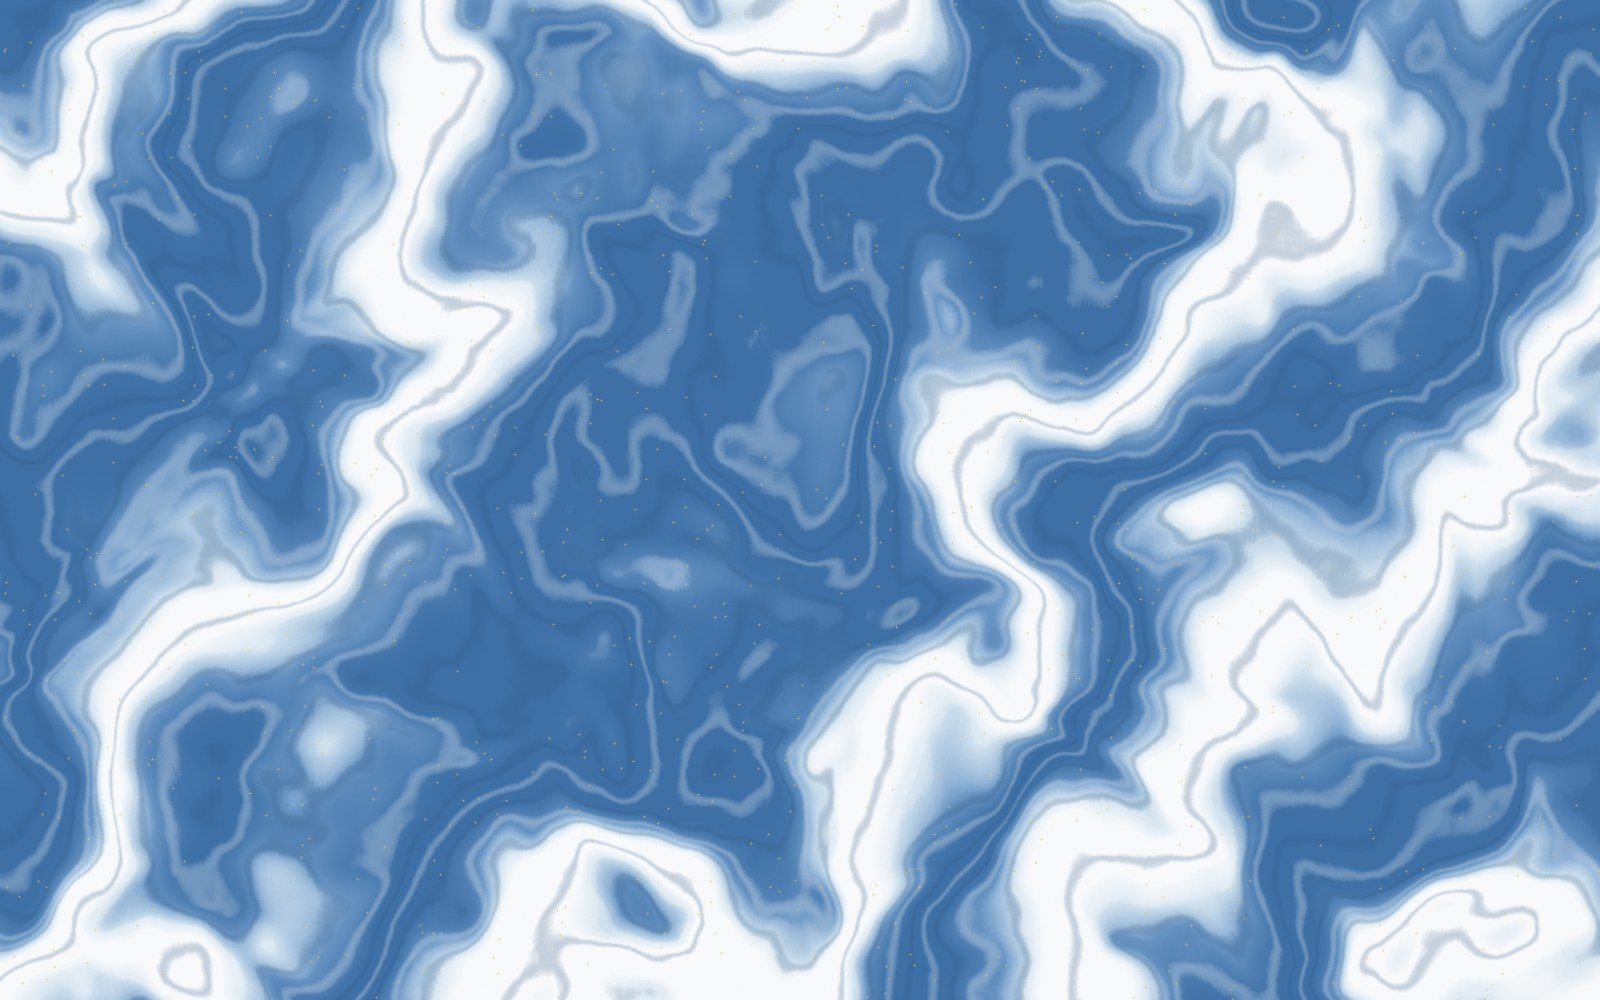
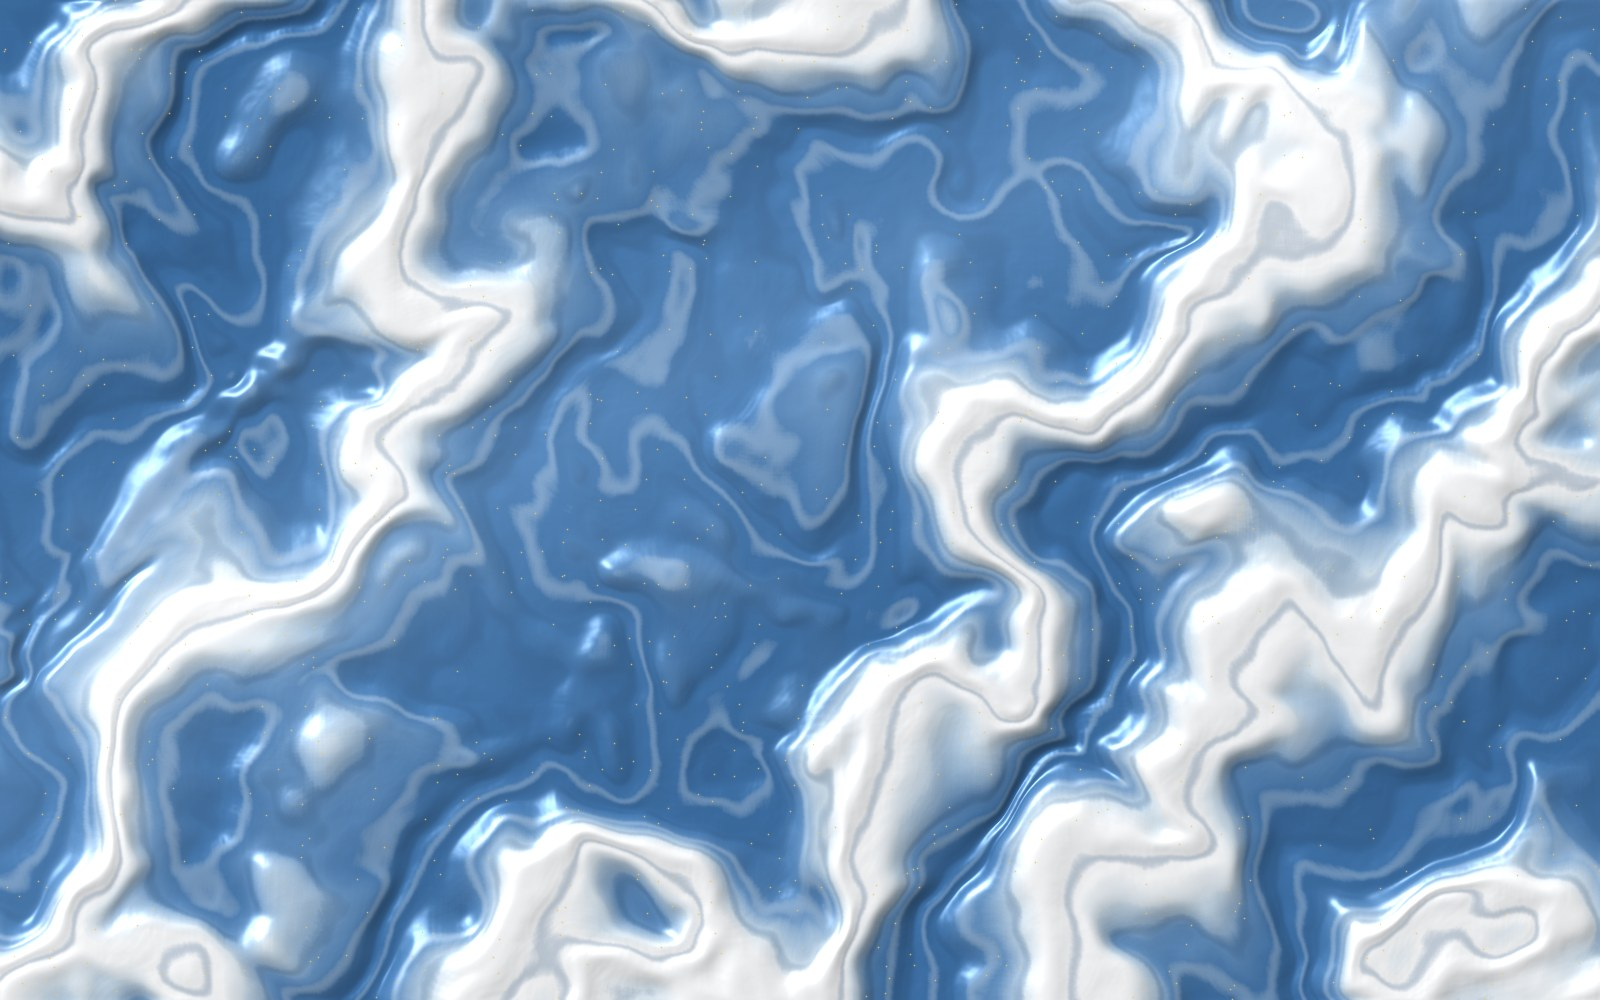
Honey Tune: user's title art, mockup drips, 3D marble, no timeline drips
Claude-Session: https://claude.ai/code/session_01CehMogZvv8Ni66uUe9tZRt

diff --git a/honeytune/HoneyPanel.cpp b/honeytune/HoneyPanel.cpp
@@ -205,23 +205,21 @@ void HoneyPanel::paint (Graphics& g)
     for (const auto& c : cards)
         drawGlass (g, c, 7.0f, 0.6f);
 
-    // Title: honeycomb cell + HONEY TUNE
+    // Title art
+    g.setOpacity (1.0f);
+    if (const auto img = title(); img.isValid())
     {
-        const float cx = topBar.getX() + 22.0f, cy = topBar.getCentreY() - 6.0f, rad = 12.0f;
-        Path hex;
-        for (int k = 0; k < 6; ++k)
-        {
-            const float a = MathConstants<float>::pi / 3.0f * (float) k + MathConstants<float>::pi / 6.0f;
-            const Point<float> p { cx + rad * std::cos (a), cy + rad * std::sin (a) };
-            if (k == 0) hex.startNewSubPath (p); else hex.lineTo (p);
-        }
-        hex.closeSubPath();
-        fillGold (g, hex, hex.getBounds());
-        g.setColour (goldDeep);
-        g.strokePath (hex, PathStrokeType (1.2f));
-        drawGoldText (g, "HONEY TUNE", Rectangle<float> (cx + 18.0f, cy - 14.0f, 160.0f, 28.0f), FontOptions (22.0f, Font::bold), Justification::centredLeft);
-        drawGoldText (g, "by Voxology", Rectangle<float> (cx + 19.0f, cy + 12.0f, 120.0f, 14.0f), FontOptions (11.5f, Font::bold), Justification::centredLeft);
+        // A soft dark halo first, so the marble letters stand off the marble bar.
+        const auto placed = RectanglePlacement (RectanglePlacement::centred).appliedTo (img.getBounds().toFloat(), titleArea);
+        const auto scaled = img.rescaled (roundToInt (placed.getWidth()), roundToInt (placed.getHeight()), Graphics::highResamplingQuality);
+        Graphics::ScopedSaveState save (g);
+        g.addTransform (AffineTransform::translation (placed.getX(), placed.getY()));
+        DropShadow (Colour (0xff0b1726).withAlpha (0.85f), 9, { 1, 2 }).drawForImage (g, scaled.convertedToFormat (Image::ARGB));
+        g.setOpacity (1.0f);
+        g.drawImageAt (scaled, 0, 0);
     }
+    drawGoldText (g, "by Voxology", titleArea.withTrimmedLeft (titleArea.getWidth() * 0.42f).removeFromBottom (15.0f).translated (0.0f, 3.0f),
+                  FontOptions (12.0f, Font::bold), Justification::centredLeft);
 
     // Control labels on the marble, in embossed gold.
     for (auto* l : { &keyLabel, &scaleLabel, &snapLabel, &driftLabel, &vibratoLabel })
@@ -276,13 +274,18 @@ void HoneyPanel::paint (Graphics& g)
 
 void HoneyPanel::paintOverChildren (Graphics& g)
 {
-    // Honey dripping from the top bar over the roll, and from the frame below the window.
+    // Honey dripping off the bottom of the frame (the drips from the mockup art).
     const auto fr = frameArea();
-    const float rulerBottom = (float) roll.getY() + 20.0f;   // drips hang from the gold time ruler
-    honeytheme::drawDrips (g, fr.getX() + 70.0f, fr.getX() + fr.getWidth() * 0.45f, rulerBottom, 26.0f, 4, 3);
-    honeytheme::drawDrips (g, fr.getRight() - 260.0f, fr.getRight() - 60.0f, rulerBottom, 16.0f, 2, 9);
-    honeytheme::drawDrips (g, fr.getX() + fr.getWidth() * 0.55f, fr.getRight() - 30.0f, fr.getBottom() - 1.0f, kDripRoom - 4.0f, 6, 17);
-    honeytheme::drawDrips (g, fr.getX() + 30.0f, fr.getX() + 260.0f, fr.getBottom() - 1.0f, kDripRoom - 6.0f, 3, 23);
+    g.setOpacity (1.0f);
+    const float positions[] = { 0.26f, 0.61f, 0.87f };
+    for (int k = 0; k < 3; ++k)
+    {
+        const auto img = honeytheme::drip (k);
+        if (! img.isValid()) continue;
+        const float h = kDripRoom + kFrame + 6.0f, w = h * (float) img.getWidth() / (float) img.getHeight();
+        const float x = fr.getX() + fr.getWidth() * positions[k] - (k == 2 ? w * 0.5f : 0.0f);
+        g.drawImage (img, { std::min (x, fr.getRight() - w - 4.0f), fr.getBottom() - kFrame - 3.0f, w, h }, RectanglePlacement::stretchToFit);
+    }
 }
 
 Rectangle<float> HoneyPanel::frameArea() const
@@ -294,7 +297,7 @@ void HoneyPanel::resized()
 {
     const auto inner = frameArea().reduced (kFrame);
     auto r = inner;
-    topBar = r.removeFromTop (70.0f);
+    topBar = r.removeFromTop (104.0f);
     r.removeFromTop (kSeparator);
     bottomBar = r.removeFromBottom (84.0f);
     r.removeFromBottom (kSeparator);
@@ -302,8 +305,10 @@ void HoneyPanel::resized()
     cards.clear();
 
     // Top: title | key | scale | snap | drift | vibrato | fit ... legend | logo
-    auto top = topBar.reduced (8.0f, 8.0f);
-    top.removeFromLeft (172.0f);
+    auto top = topBar.reduced (8.0f, 4.0f);
+    titleArea = top.removeFromLeft (236.0f).withTrimmedBottom (6.0f);
+    top.removeFromLeft (6.0f);
+    top = top.withSizeKeepingCentre (top.getWidth(), 56.0f);
     logoArea = top.removeFromRight (120.0f);
     top.removeFromRight (6.0f);
     legendArea = top.removeFromRight (92.0f);

diff --git a/honeytune/assets/src/cutout.py b/honeytune/assets/src/cutout.py
@@ -1,0 +1,28 @@
+# Cuts art out of a "fake transparency" checkerboard: near-white / light-grey, unsaturated regions that
+# touch the border (or are big) become transparent; edges get a soft alpha.
+import sys, numpy as np
+from PIL import Image, ImageFilter
+from scipy import ndimage
+def cutout(img, box=None, big=600, satMax=0.06, valMin=0.72):
+    im = img.convert('RGB')
+    if box: im = im.crop(box)
+    a = np.asarray(im, dtype=np.float32) / 255
+    mx, mn = a.max(2), a.min(2)
+    sat = np.where(mx > 0, (mx - mn) / np.maximum(mx, 1e-6), 0)
+    checker = (sat < satMax) & (mx > valMin)
+    lab, n = ndimage.label(checker)
+    border = set(np.unique(np.concatenate([lab[0], lab[-1], lab[:, 0], lab[:, -1]]))) - {0}
+    sizes = ndimage.sum(checker, lab, range(n + 1))
+    bg = np.isin(lab, [i for i in range(1, n + 1) if i in border or sizes[i] > big])
+    bg = ndimage.binary_opening(bg, iterations=1)
+    alpha = (~bg).astype(np.float32)
+    alpha = np.asarray(Image.fromarray((alpha * 255).astype(np.uint8)).filter(ImageFilter.GaussianBlur(0.7)), dtype=np.float32) / 255
+    alpha = np.clip((alpha - 0.15) / 0.7, 0, 1)
+    rgba = np.dstack([np.asarray(im), (alpha * 255).astype(np.uint8)])
+    out = Image.fromarray(rgba, 'RGBA')
+    return out.crop(out.getbbox())
+if __name__ == '__main__':
+    src, dst = sys.argv[1], sys.argv[2]
+    box = tuple(int(v) for v in sys.argv[3].split(',')) if len(sys.argv) > 3 else None
+    o = cutout(Image.open(src), box)
+    o.save(dst); print(dst, o.size)

diff --git a/honeytune/assets/src/make_marble.py b/honeytune/assets/src/make_marble.py
@@ -24,6 +24,22 @@ col=lerp(col,c_white,np.clip((t-0.78)/0.14,0,1))
 col=lerp(col,c_white,np.clip(f-0.85,0,1)*3*0.6)
 col=lerp(col,c_deep*0.8,np.clip(0.1-f,0,1)*5*0.5)
 a=np.asarray(Image.fromarray(np.clip(col,0,255).astype(np.uint8)).filter(ImageFilter.GaussianBlur(0.8)),dtype=np.float32)
+# 3D: a height field from the bands (pale stone raised, blue veins sunk), lit from the top left, glossy.
+from scipy.ndimage import gaussian_filter
+h=gaussian_filter(t,4.0)*1.0+gaussian_filter(f,1.5)*0.12
+gy,gx=np.gradient(h)
+nx,ny,nz=-gx*28,-gy*28,np.ones_like(h)
+nl=np.sqrt(nx*nx+ny*ny+nz*nz); nx,ny,nz=nx/nl,ny/nl,nz/nl
+L=np.array([-0.55,-0.65,0.52]); L=L/np.linalg.norm(L)
+diff=nx*L[0]+ny*L[1]+nz*L[2]
+shade=0.72+0.42*diff
+Hh=np.array([0,0,1.0])+L; Hh=Hh/np.linalg.norm(Hh)
+spec=np.clip(nx*Hh[0]+ny*Hh[1]+nz*Hh[2],0,1)**60
+a=a*shade[...,None]+255*spec[...,None]*0.55
+# broad polished sheen
+yy,xx=np.mgrid[0:H,0:W].astype(np.float32)
+sheen=np.clip(1-np.abs(((xx*0.55+yy)/H)-0.75)*2.2,0,1)**2*28
+a=a+sheen[...,None]
 r=np.random.default_rng(99)
 mask=(r.random((H,W))>0.9994)
 spk=Image.fromarray((mask*255).astype(np.uint8)).filter(ImageFilter.GaussianBlur(0.6))

diff --git a/honeytune/HoneyTheme.cpp b/honeytune/HoneyTheme.cpp
@@ -9,6 +9,16 @@ namespace honeytheme {
 Image marble()      { return ImageCache::getFromMemory (HoneyAssets::marble_blue_white_jpg, HoneyAssets::marble_blue_white_jpgSize); }
 Image goldTexture() { return ImageCache::getFromMemory (HoneyAssets::gold_jpg, HoneyAssets::gold_jpgSize); }
 Image logo()        { return ImageCache::getFromMemory (HoneyAssets::logo_png, HoneyAssets::logo_pngSize); }
+Image title()       { return ImageCache::getFromMemory (HoneyAssets::title_png, HoneyAssets::title_pngSize); }
+Image drip (int which)
+{
+    switch (which)
+    {
+        case 0:  return ImageCache::getFromMemory (HoneyAssets::drip_a_png, HoneyAssets::drip_a_pngSize);
+        case 1:  return ImageCache::getFromMemory (HoneyAssets::drip_b_png, HoneyAssets::drip_b_pngSize);
+        default: return ImageCache::getFromMemory (HoneyAssets::drip_c_png, HoneyAssets::drip_c_pngSize);
+    }
+}
 
 void drawMarble (Graphics& g, Rectangle<float> area, float wash, Point<float> offset)
 {

diff --git a/honeytune/HoneyPanel.h b/honeytune/HoneyPanel.h
@@ -29,9 +29,9 @@ private:
     juce::Rectangle<float> frameArea() const;
 
     std::unique_ptr<honeytheme::Look> look;
-    juce::Rectangle<float> topBar, bottomBar, legendArea, logoArea, noteInfoArea, statusArea;
+    juce::Rectangle<float> topBar, bottomBar, titleArea, legendArea, logoArea, noteInfoArea, statusArea;
     std::vector<juce::Rectangle<float>> cards;
-    static constexpr float kFrame = 9.0f, kSeparator = 6.0f, kDripRoom = 24.0f;
+    static constexpr float kFrame = 9.0f, kSeparator = 6.0f, kDripRoom = 44.0f;
     honeyui::Model* model = nullptr;
 
     juce::ComboBox key, scale;

diff --git a/honeytune/HoneyTheme.h b/honeytune/HoneyTheme.h
@@ -11,6 +11,8 @@ const juce::Colour gold { 0xffc9952f }, goldLight { 0xfff6d682 }, goldDeep { 0xf
 juce::Image marble();   // 1600 x 1000 blue / white liquid marble
 juce::Image goldTexture();
 juce::Image logo();
+juce::Image title();
+juce::Image drip (int which);   // 0..2: the honey drips from the mockup
 
 /** Marble across `area` (fills it, cropped), washed toward white by `wash` (0..1). */
 void drawMarble (juce::Graphics&, juce::Rectangle<float> area, float wash, juce::Point<float> offset = {});

diff --git a/honeytune/preview/HoneyPreview.cpp b/honeytune/preview/HoneyPreview.cpp
@@ -52,7 +52,7 @@ int main (int argc, char** argv)
     m.settings.snap = argc > 6 ? std::atof (argv[6]) : 0.0;   // show the notes as sung (glow), unless asked
 
     HoneyPanel panel;
-    panel.setSize (1200, 680);
+    panel.setSize (1200, 720);
     panel.setModel (&m);
     // A few hand edits so every look shows: fixed by hand, moved a whole note, and a selection.
     int shown = 0;

diff --git a/honeytune/HoneyTunePlugin.cpp b/honeytune/HoneyTunePlugin.cpp
@@ -521,7 +521,7 @@ public:
         panel.setModel (dc != nullptr ? this : nullptr);
         setResizable (true, false);
         setResizeLimits (900, 460, 4000, 2400);
-        setSize (1200, 680);
+        setSize (1200, 720);
     }
 
     ~HoneyEditor() override

diff --git a/claude/RESUME-HERE.md b/claude/RESUME-HERE.md
@@ -167,7 +167,10 @@ sliders with marble knobs, gold scrollbars. Gotcha: Graphics::drawImage uses the
 Round 2 (user: "more like mine, more realistic, cream glow in-key / blue glow off-key like the knobs"): agate marble
 (assets/src/make_marble.py) with gold flecks, glitter gold (mirrored seamless), raised bevelled gold bars on rows
 OUTSIDE the key (black keys when chromatic) = mockup's alternating bars, gold honeycomb lines, DropShadow glows
-behind cells, embossed gold title / labels (drawGoldText). Editor 1200 x 680.
+behind cells, embossed gold title / labels (drawGoldText). Round 3: no drips on the timeline; bottom drips = cut
+from the user's mockup (assets/src/cutout.py removes fake checkerboards; drip_a/b/c.png); user's Honey Tune title
+art (images/13.jpg -> assets/title.png, "by Voxology" trimmed and drawn as gold text); marble now 3D (height
+field lighting + specular + sheen in make_marble.py). Top bar 104 px, editor 1200 x 720.
 
 ## Honey Tune (decided 2026-10-05; build AFTER the user confirms v0.2 works in Cubase)
 User's name for our Melodyne-style note editor: "Honey Tune". Each note = a gold-rimmed blue-marble
